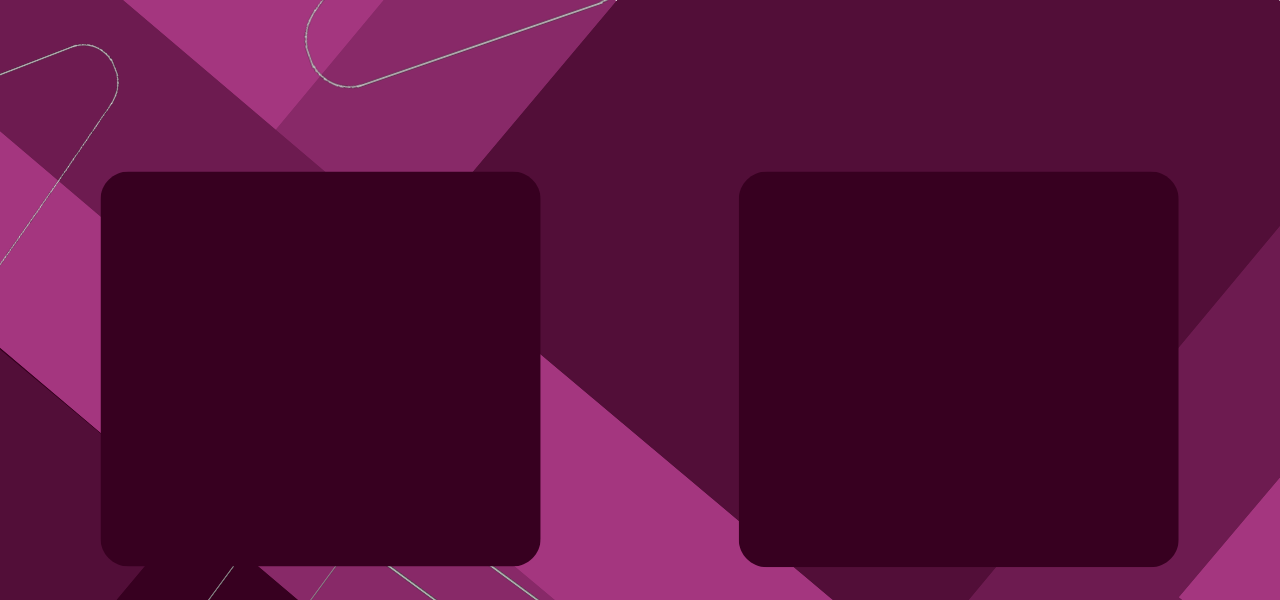
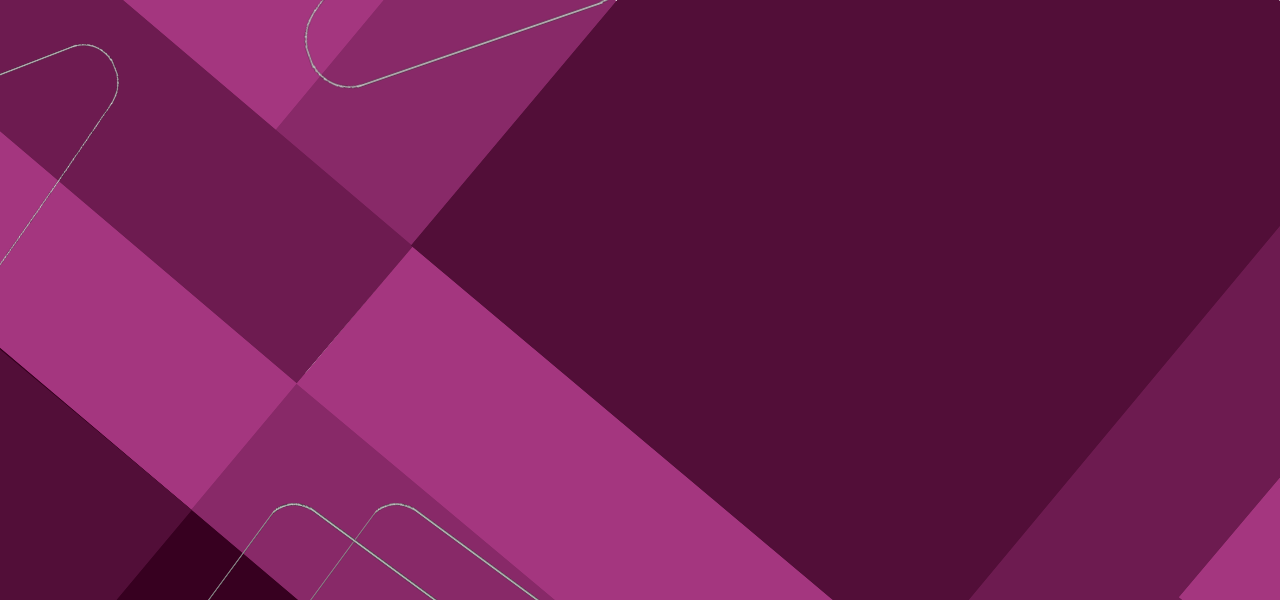
responsiveness-adjustments

diff --git a/src/Componentes/Points/Pontos/index.jsx b/src/Componentes/Points/Pontos/index.jsx
@@ -71,8 +71,9 @@ function aoZerar() {
   }
   
   return (
-    <div className="bg-[#370020] w-[440px] h-[395px] rounded-3xl absolute right-[101px] top-[172px] text-neutral-white p-6">
-      <header className="flex mb-10 items-center">
+    <div className="bg-dark-purple rounded-3xl text-neutral-white p-10 flex flex-col">
+
+      <header className="flex mb-10 items-center relative">
         <h2 className="text-4xl font-bold grow text-center ml-8">
           Seus Pontos
         </h2>
@@ -82,17 +83,17 @@ function aoZerar() {
         >
           <Options/>
         </span>
-        <div className="absolute right-6 top-16 bg-white text-black rounded-xl shadow-lg z-10 overflow-hidden">
+        <div className="absolute right-0 top-12 bg-neutral-white text-neutral-black rounded-xl shadow-lg z-10 overflow-hidden">
           {dropdownOpen && (
               <ul className="flex flex-col items-center p-2">
                 <li
                   onClick={() => aoAlterarDiasTrabalhados()}
-                  className=" cursor-pointer hover:bg-gray-200">
+                  className=" cursor-pointer hover:bg-neutral-gray">
                     Finalizar
                 </li>
-                <li className="cursor-pointer hover:bg-gray-200">Editar</li>
+                <li className="cursor-pointer hover:bg-neutral-gray">Editar</li>
                 <li 
-                  className="cursor-pointer hover:bg-gray-200"
+                  className="cursor-pointer hover:bg-neutral-gray"
                   onClick={() => aoZerar()}
                 >Zerar
                 </li>
@@ -100,10 +101,10 @@ function aoZerar() {
           )}
         </div>
       </header>
-      
-      <ul className="flex-col">
+
+      <ul className="flex flex-col grow justify-between mb-10">
         {list.map((item, index) =>
-          <li className="flex items-center gap-6 mb-5 text-2xl" key={index}>
+          <li className="flex items-center gap-6  text-2xl" key={index}>
             <span onClick={() => aoAlterarPontos("somar", index)}>
               <Add className="cursor-pointer hover:rotate-360 transition-all duration-500 ease-in-out"/>
             </span>
@@ -114,8 +115,8 @@ function aoZerar() {
           </li>
         )}
       </ul>
-
-      <footer className="flex pt-4 text-3xl">
+      
+      <footer className="flex text-3xl">
         <p className="grow">{`Daily: ${dailyPoints.toFixed(1)}`}</p>
         <p>{`Monthly: ${monthlyPoints.toFixed(1)}`}</p>
       </footer>

diff --git a/src/Componentes/Points/Notes/index.jsx b/src/Componentes/Points/Notes/index.jsx
@@ -54,8 +54,8 @@ export default function Notes() {
   setModalAberta(false);
   };
   return (
-    <div className="absolute left-[101px] top-[172px]">
-      <div className="bg-[#370020] w-[440px] h-[395px] rounded-3xl text-neutral-white p-6">
+    <div className="w-30%">
+      <div className="bg-dark-purple  rounded-3xl text-neutral-white p-10">
         <h2 className="text-4xl font-bold mb-10 text-center">
           Notas
         </h2>
@@ -64,10 +64,10 @@ export default function Notes() {
           <li
             key={i}
             onClick={() => abrirModal(i)}
-            className="border-b border-gray-300 pb-0.5 cursor-pointer hover:opacity-80 transition-all 
-              duration-300 ease-in-out mb-5"
+            className="border-b border-neutral-white pb-0.5 cursor-pointer hover:opacity-80 transition-all 
+              duration-300 ease-in-out mb-10"
           >
-            <span className="text-2xl truncate block max-w-full">
+            <span className="text-2xl truncate block max-w-full ">
               {nota ? `${i + 1}. ${nota}` : `${i + 1}.`}
             </span>
           </li>
@@ -82,12 +82,12 @@ export default function Notes() {
             onClick={() => setModalAberta(false)}
         >
           <div 
-            className="bg-[#a4367f] text-white p-3 rounded-xl w-[350px] shadow-xl"
+            className="bg-secondary-purple text-white p-3 rounded-xl w-[350px] shadow-xl"
             onClick={(e) => e.stopPropagation()}
           >
             <h2 className="text-2xl font-bold mb-2 text-center">Nota</h2>
             <textarea
-              className="w-full h-36 p-2 bg-[#520e38] rounded-xl resize-none outline-none shadow-lg"
+              className="w-full h-36 p-2 bg-tertiary-purple rounded-xl resize-none outline-none shadow-lg"
               maxLength={150}
               value={texto}
               onChange={(e) => setTexto(e.target.value)}
@@ -97,7 +97,7 @@ export default function Notes() {
             <div className="flex justify-end">
               <button
                 onClick={salvarNota}
-                className="px-4 py-1 rounded-xl bg-[#370020] text-white hover:bg-[#520e38] transition-all 
+                className="px-4 py-1 rounded-xl bg-dark-purple text-neutral-white hover:bg-tertiary-purple transition-all 
                 duration-300 ease-in-out mt-2"
               >
                 Salvar

diff --git a/src/Componentes/Slide/Banner2/index.jsx b/src/Componentes/Slide/Banner2/index.jsx
@@ -22,7 +22,7 @@ export default function Banner2({ isActive }) {
       <motion.h1
         className="
           absolute text-[64px] font-bold
-          top-[71px] left-1/2 -translate-x-1/2 -translate-y-1/2
+          top-1/5 left-1/2 -translate-x-1/2 -translate-y-1/2
         "
         variants={textVariants}
         initial="hidden"
@@ -33,7 +33,7 @@ export default function Banner2({ isActive }) {
 
       <motion.h2
         className="
-          absolute text-[28px] top-[138px] left-[403px] -translate-y-1/2 
+          absolute text-[28px] top-1/3 left-2/7 
         "
         variants={textVariants}
         initial="hidden"
@@ -45,7 +45,7 @@ export default function Banner2({ isActive }) {
 
        <motion.h2
         className="
-          absolute text-[28px] top-[193px] left-[370px] -translate-y-1/2 
+          absolute text-[28px] top-1/2 left-1/4 -translate-y-1/2 
         "
         variants={textVariants}
         initial="hidden"
@@ -57,7 +57,7 @@ export default function Banner2({ isActive }) {
 
        <motion.h2
         className="
-          absolute text-[28px] top-[267px] left-[475px] -translate-y-1/2
+          absolute text-[28px] top-10/15 left-1/2 -translate-x-1/2 -translate-y-1/2
         "
         variants={textVariants}
         initial="hidden"
@@ -68,7 +68,7 @@ export default function Banner2({ isActive }) {
       </motion.h2>
 
       <motion.p
-        className="absolute text-[16px] top-[369px] left-[370px] -translate-y-1/2"
+        className="absolute text-[16px] bottom-1/12 left-1/4 -translate-y-1/2"
         variants={textVariants}
         initial="hidden"
         animate={isActive ? "visible" : "hidden"}

diff --git a/src/Componentes/Points/index.jsx b/src/Componentes/Points/index.jsx
@@ -1,19 +1,22 @@
-import background from '../../assets/Imagens/points.png';
-import Pontos from './Pontos';
+import bgImage from '../../assets/imagens/points.png';
 import Notes from './Notes';
+import Pontos from './Pontos';
 
 export default function Points() {
   return (
-    <div className='overflow-hidden relative'>
-      <h1 className='absolute text-[64px] font-bold text-neutral-white top-[90px] left-1/2 
-        -translate-x-1/2 -translate-y-1/2'
+    <div 
+      className='overflow-hidden'
+      style={{backgroundImage: `url(${bgImage})`, backgroundSize: 'cover', backgroundPosition: 'center', minHeight: '100%', padding: '40px'}}
+    >
+      <h1 className='text-[64px] font-bold text-neutral-white text-center mb-10'
       >
         Anotações e Pontos
       </h1>
-      <Pontos/>
-      <Notes/>
+      <div className='grid grid-cols-2 items-stretch gap-20 ml-10 mr-10'>
+        <Notes/>
+        <Pontos/>
+      </div>
       
-      <img src={background}/>
     </div>
     
   )

diff --git a/src/Componentes/Slide/Banner1/index.jsx b/src/Componentes/Slide/Banner1/index.jsx
@@ -22,7 +22,7 @@ export default function Banner1({ isActive }) {
       <motion.h1
         className="
           absolute text-[64px] font-bold
-          top-[71px] left-1/2 -translate-x-1/2 -translate-y-1/2
+          top-1/5 left-1/2 -translate-x-1/2 -translate-y-1/2
         "
         variants={textVariants}
         initial="hidden"
@@ -34,7 +34,7 @@ export default function Banner1({ isActive }) {
       <motion.h2
         className="
           absolute text-[64px]
-          top-[181px] left-[132px] -translate-y-1/2
+          top-1/2 left-1/10 -translate-y-1/2 
         "
         variants={textVariants}
         initial="hidden"
@@ -47,7 +47,7 @@ export default function Banner1({ isActive }) {
       <motion.p
         className="
           absolute text-[24px]
-          top-[301px] left-[95px] -translate-y-1/2
+          bottom-1/8 left-1/14 -translate-y-1/2
         "
         variants={textVariants}
         initial="hidden"

diff --git a/src/index.css b/src/index.css
@@ -4,8 +4,9 @@
 @theme { 
   /* Neutral colors */ 
   --color-neutral-white: #FFFFFF;
-  --color-neutral-gray: #4c5964;
+  --color-neutral-gray: #e5e7eb;
   --color-neutral-green: #79f8ec;
+  --color-neutral-black: #000000;
    /* Primary colors */ 
   --color-primary-green: #0FBA55;
   --color-primary-yellow: #FFB60C;
@@ -13,8 +14,14 @@
   --color-primary-purple: #BD00CE;
    /* Secondary colors */
   --color-secondary-green: #00ee91;
+  --color-secondary-purple: #a4367f;
   /* Tertiary colors */
   --color-tertiary-green: #42fff8;
+  --color-tertiary-purple: #520e38;
+  /* dark colors */
+  --color-dark-purple: #370020;
+  /* background */
+  --background-image: url('../assets/imagens/points.png');
 }
 
 @layer base {

diff --git a/src/Componentes/Navbar/index.jsx b/src/Componentes/Navbar/index.jsx
@@ -14,7 +14,7 @@ export default function Navbar() {
       >
         {links.map((link) => (
           <li key={link} className="group flex flex-col items-center">
-            <a className="mb-2 hover:text-neutral-gray transition-all duration-300">{link}</a>
+            <a className="mb-2 hover:opacity-70 transition-all duration-300">{link}</a>
             <span className="
               opacity-0 scale-x-0 group-hover:opacity-100 group-hover:scale-x-100 origin-left 
               bg-tertiary-green w-6 h-1 rounded-2xl transition-all duration-300"

diff --git a/src/Componentes/Footer/index.jsx b/src/Componentes/Footer/index.jsx
@@ -2,7 +2,7 @@ import logo from '../../assets/Imagens/logo-branco.png';
 
 export default function Footer() {
   return (
-    <footer className="flex items-center justify-between bg-primary-green text-neutral-white h-[120px] w-7xl p-4">
+    <footer className="flex items-center justify-between bg-primary-green text-neutral-white h-[120px] w-full p-4">
       <p className=''>Desenvolvido por Leandro Souza</p>
       <img 
         src={logo} 

diff --git a/src/Componentes/Main/index.jsx b/src/Componentes/Main/index.jsx
@@ -2,7 +2,7 @@
 
 export default function Main({ children }) {
   return (
-    <main className="flex flex-col bg-neutral-white w-7xl min-h-screen">
+    <main className="flex flex-col bg-neutral-white w-full min-h-screen">
       {children}
     </main>
   );
